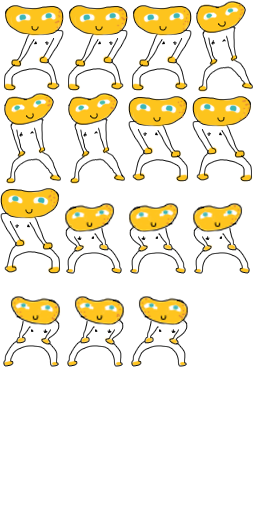
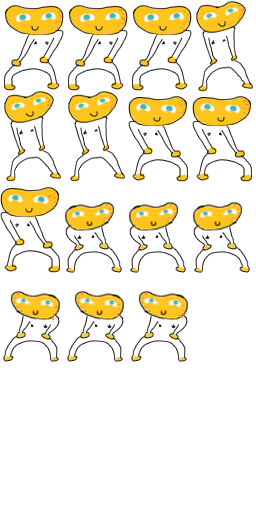
改图片

diff --git a/static/json/weizhu.js b/static/json/weizhu.js
@@ -12,9 +12,9 @@
 	"weizhu0009": {"x":64,"y":182,"w":64,"h":91},
 	"weizhu0010": {"x":128,"y":182,"w":64,"h":91},
 	"weizhu0011": {"x":192,"y":182,"w":64,"h":91},
-	"weizhu0012": {"x":0,"y":277,"w":64,"h":91},
-	"weizhu0013": {"x":64,"y":277,"w":64,"h":91},
-	"weizhu0014": {"x":128,"y":277,"w":64,"h":91}
+	"weizhu0012": {"x":0,"y":273,"w":64,"h":91},
+	"weizhu0013": {"x":64,"y":273,"w":64,"h":91},
+	"weizhu0014": {"x":128,"y":273,"w":64,"h":91}
 },
 "frames": {
 	"weizhu": {
